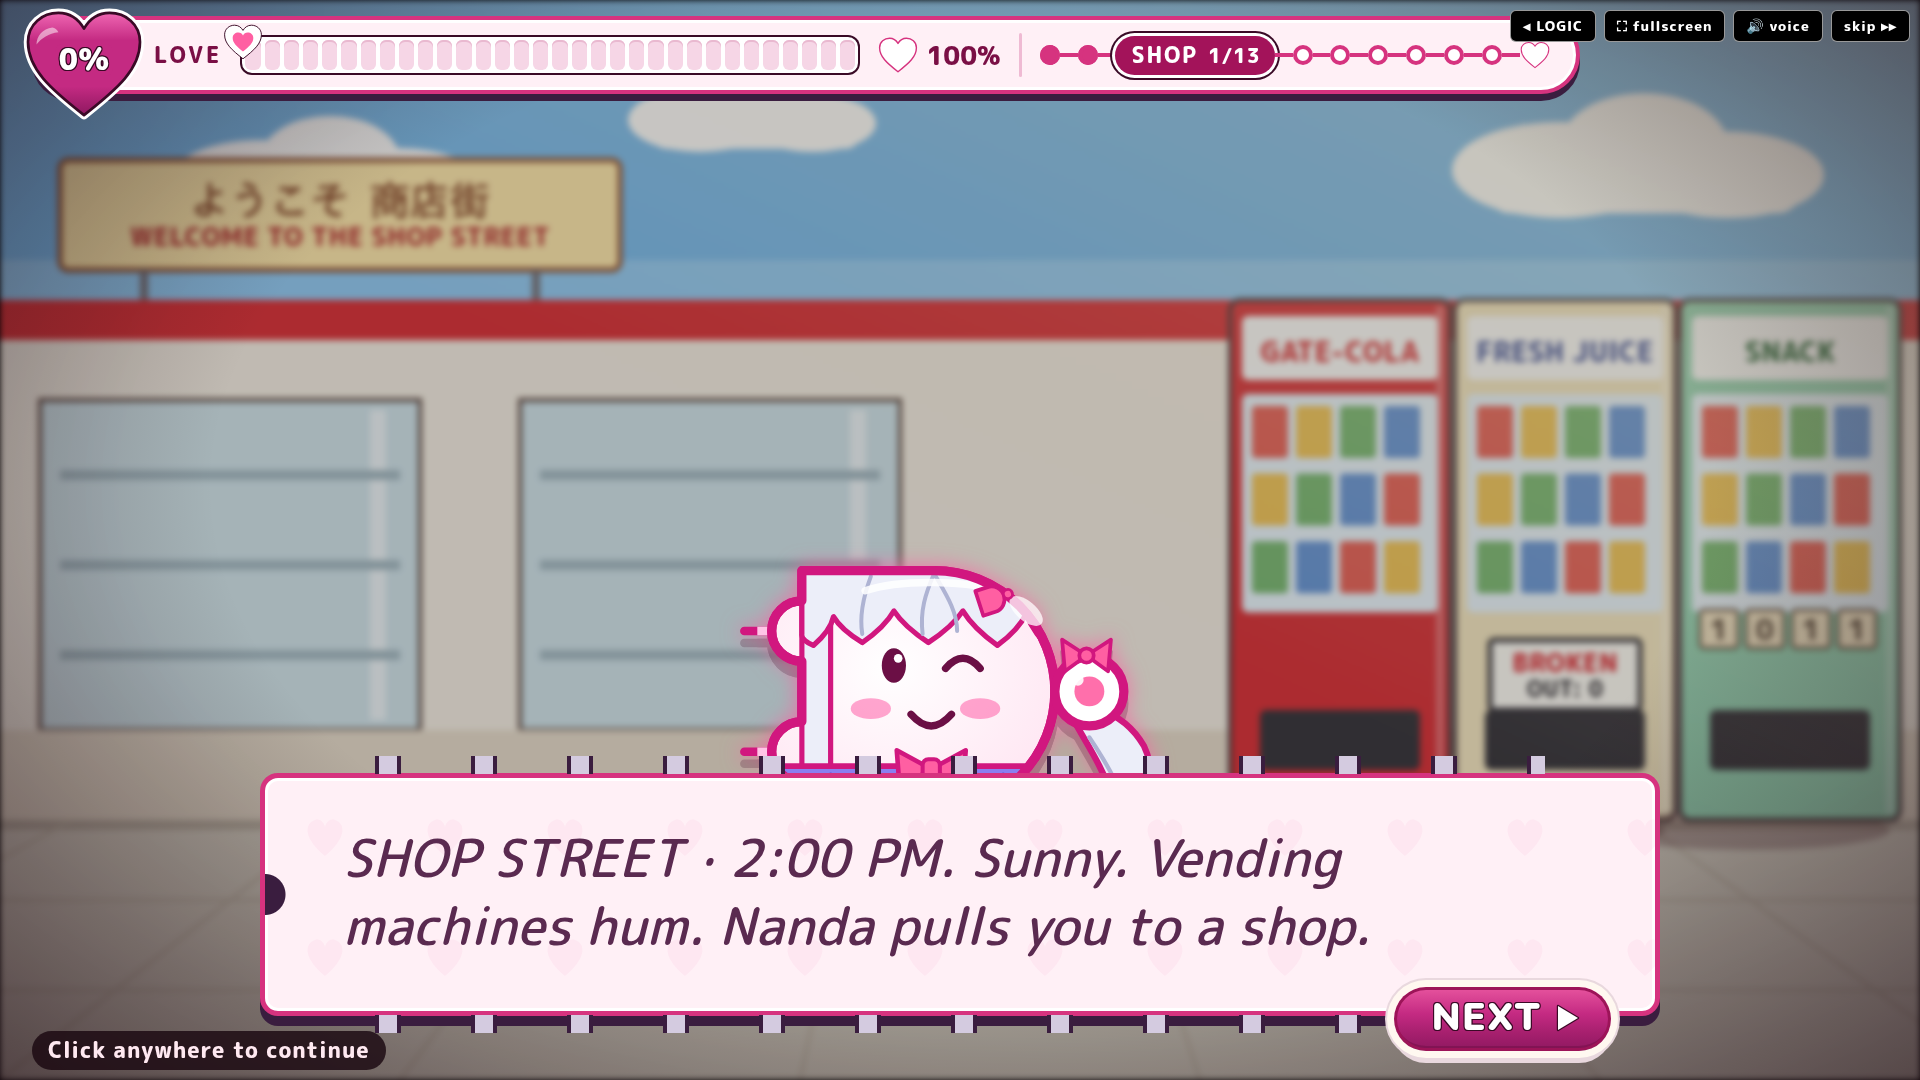
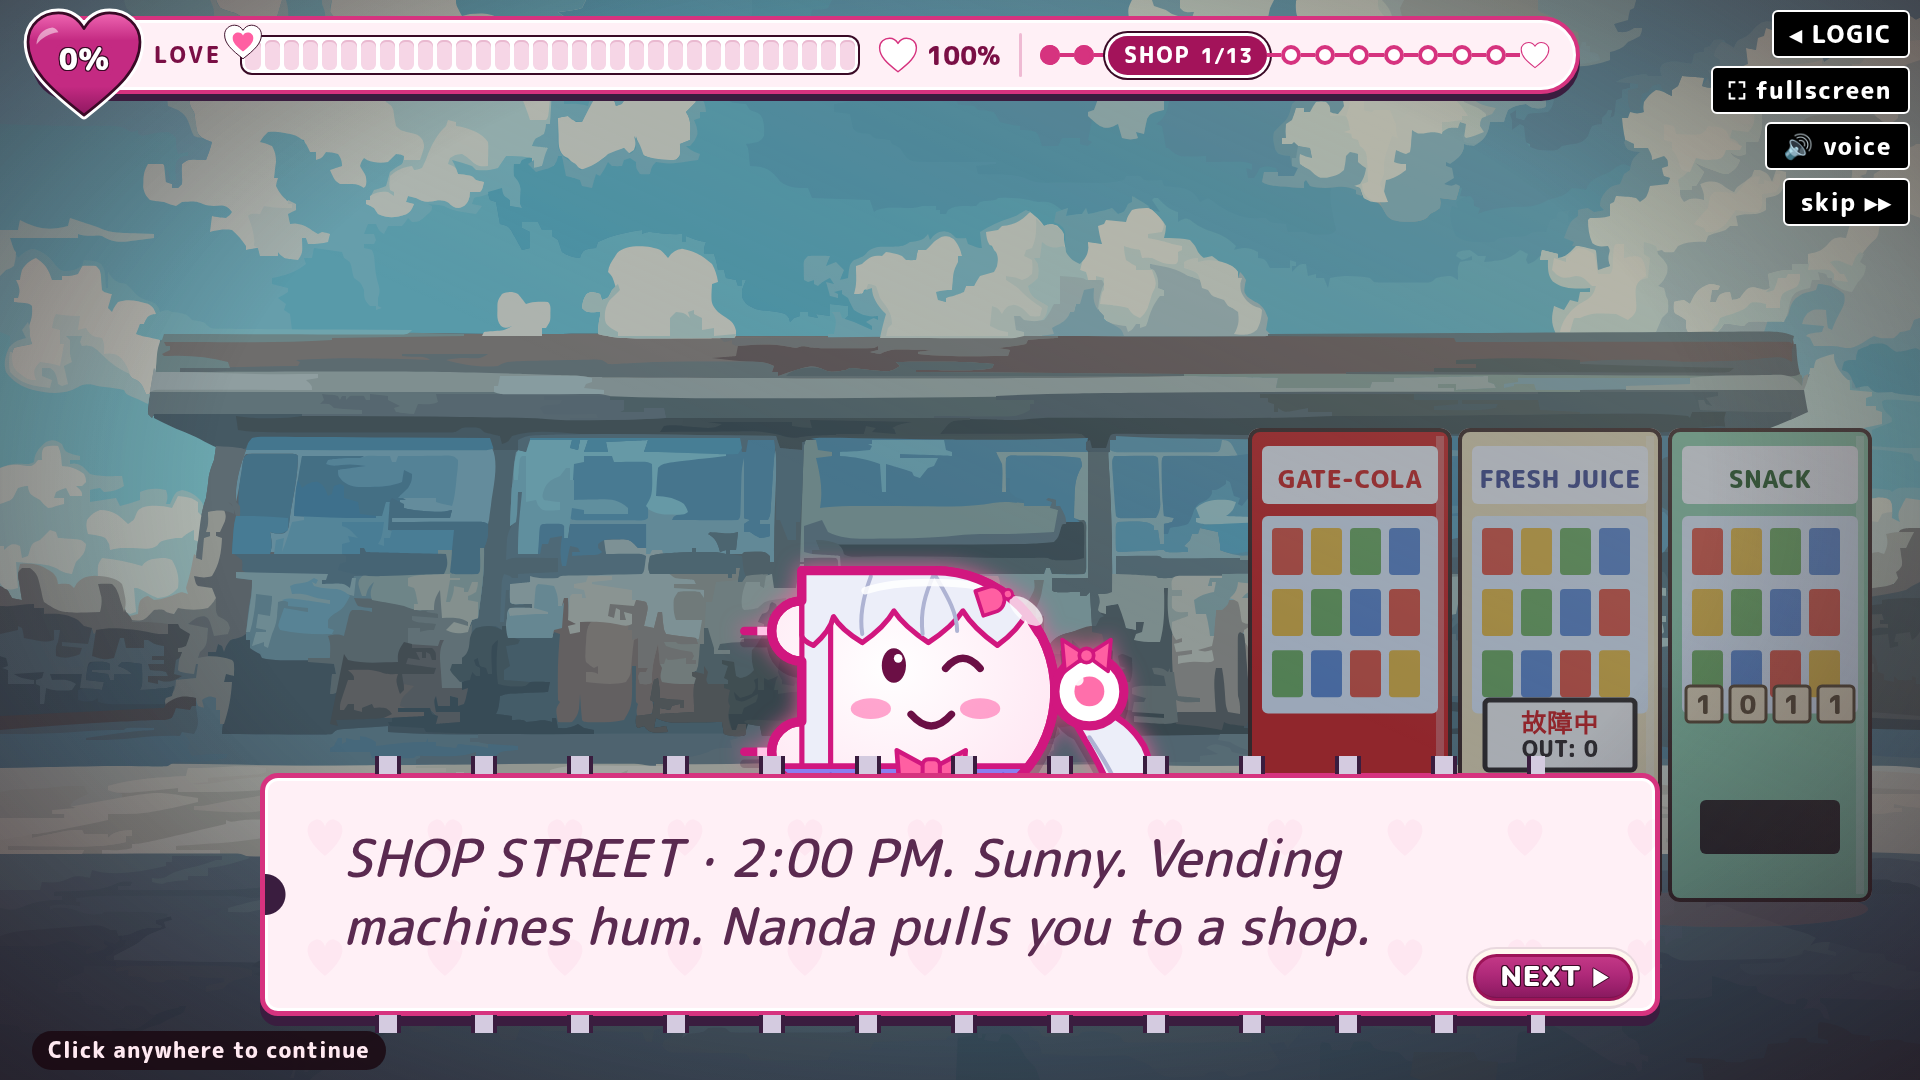
shop: re-shoot 24 + chain, cel-compare side-by-sides, CEL-LOG (drop the floating OPEN card)
Claude-Session: https://claude.ai/code/session_01SJvvUToGvjR4saHp1762z5

diff --git a/src/date-beta/art/shop/Front.jsx b/src/date-beta/art/shop/Front.jsx
@@ -48,13 +48,13 @@ const NameBand = ({ x = 1100, y = 360, w = 500 }) => (
   </g>
 );
 
-// 2. The shop doors (far: ref 16, closer; the entrance lands right of her slot). Cels: the name band on the traced
+// 2. The shop doors (far: ref 16, closer; the entrance lands right of her slot; an OPEN card cel was dropped: it
+// floated on the glass, the trace reads better). Cels: the name band on the traced
 // sign, the EGGS A-board on the pavement (shadow down-left).
 export function ShopDoors() {
   return (
     <ShopScene id="doors" trace="cel-doors" tint={SKY} label="The front of the NAND MART shop on a sunny afternoon. The glass doors on the right stand open; an EGGS sign stands on the pavement by the door.">
       <NameBand x={1110} y={372} w={480} />
-      <Card x={120} y={250} w={380} h={60} r={6} fill={SP.white} stroke="#2c57a8" lines={[['営業中 · OPEN, NOT CLOSED', 28, '#2c57a8']]} />
       <Shadow x={1800} y={930} w={200} h={30} />
       <path d="M1720 930 L1740 690 L1860 690 L1880 930" fill="none" stroke={SP.line} strokeWidth="8" />
       <rect x="1730" y="690" width="140" height="170" rx="6" fill="#fff6d8" stroke={SP.red} strokeWidth="5" />

diff --git a/research/sprint-0930/shop/cel/compare.py b/research/sprint-0930/shop/cel/compare.py
@@ -1,0 +1,24 @@
+# Side-by-sides per shot (CURRENT before cel | NEW multiplane | Tony's ref) -> ../cel-compare/, + the 24-shot chain.png.
+# usage: python3 compare.py <old shots dir> <refs dir>      (run from the repo root; refs are NOT committed)
+import sys, os
+from PIL import Image, ImageDraw
+
+OLD, REF = sys.argv[1], sys.argv[2]
+NEW, OUT = 'research/sprint-0930/shop/shots', 'research/sprint-0930/shop/cel-compare'
+REFS = ['16', '16', '15', '15', '12', '12', '12', '11', '11', '11', '09', '09', '09', '10', '05', '05', '03', '04', '07', '06',
+        '05', '08', '08', '16']
+os.makedirs(OUT, exist_ok=True)
+fs = sorted(f for f in os.listdir(NEW) if f.endswith('.png'))
+for f, r in zip(fs, REFS):
+    C = Image.new('RGB', (1920, 400), 'white'); d = ImageDraw.Draw(C)
+    for i, src in enumerate([f'{OLD}/{f}', f'{NEW}/{f}']):
+        C.paste(Image.open(src).convert('RGB').resize((640, 360)), (i * 640, 40))
+    rf = next(x for x in os.listdir(REF) if x.startswith(r))
+    im = Image.open(f'{REF}/{rf}').convert('RGB'); im.thumbnail((640, 360)); C.paste(im, (1280, 40))
+    for i, t in enumerate(['CURRENT (before cel)', 'NEW multiplane (vtrace + cels)', 'REF ' + rf]):
+        d.text((i * 640 + 10, 12), t, fill='black')
+    C.save(f'{OUT}/{f}'); print(f)
+C = Image.new('RGB', (6 * 320, ((len(fs) + 5) // 6) * 180))
+for i, f in enumerate(fs):
+    C.paste(Image.open(f'{NEW}/{f}').convert('RGB').resize((320, 180)), ((i % 6) * 320, (i // 6) * 180))
+C.quantize(256).save('research/sprint-0930/shop/chain.png'); print('chain', len(fs))

diff --git a/research/sprint-0930/shop/CEL-LOG.md b/research/sprint-0930/shop/CEL-LOG.md
@@ -1,0 +1,28 @@
+# SHOP: cel-over-vtrace (multiplane) log
+
+Technique: brain `_drift/2026-09-30T0515-alt-TECHNIQUE-cel-over-vtrace.md`.
+- **Far plane:** each art id uses a PURE vtrace of one of Tony's refs (`public/date-beta/trace/shop/cel-<id>.svg`). Before tracing, the only changes are a crop/scale (and a mirror for the exit), a soften/inpaint of people, lettering and watermarks, and the 2:00 PM grade. Pipeline: `cel/prep.py` and `vtrace-r2/prep.py`, then `cel/trace.py` (0.5x, 48 colours, ≤700 KB). The bgs get no hand repaint.
+- **Mid and character planes:** flat cels (`ShopScene` children) with a per-scene **tint** (a multiply grade in the colour of the traced light). Shadows fall down-left in the sunny street shots (`LIGHT`) and straight down under the overhead shop lights (`Shadow dx`).
+- **BOOK:** `ShopScene book=`, drawn in front of everything after the wash. It is used for the snacks price-tag rail (17) and the inside door frame and bell (23).
+- **Game (Tony's extra):** the answer cards and the aisle chips now use JP shop POP. Items: 単品 / ペア / 3客セット, にんじん 1袋, たまご 10個入. Aisle chips: 本日のおすすめ, 特売. The English stays as a small subtitle. The art signs follow the same style: 3客セット 特価！, 特売 · 赤いのだけ！, and the gate pun たまご AND たまご = たまご. The two player hands and the red cart rail are gone from every game frame.
+- Side-by-sides (CURRENT | NEW | REF) are in `cel-compare/`. The rule is a bias to the trace: when a cel looks worse than the plain trace, the cel is dropped.
+
+| shot | far (ref) | cels kept | decision |
+|---|---|---|---|
+| 00 street | 16 whole | 3 vending machines (GATE-COLA, 故障中, 1011) | keep: the machines carry the gags; flat on the pavement, shadow down-left |
+| 01 doors | 16 closer | NAND MART band on the traced sign, たまご A-board | **dropped** the OPEN card (it floated on the glass) |
+| 02 list | 15 blurred | the clipboard list, a blurred cart | keep: the list beat still reads |
+| 03 cart | 15 | cart, basket, handle, 2 hands + her hand | keep (same as r2) |
+| 04-06, 08-12 game aisles | 12 / 11 / 09 | POP signs, floor band, THE 3 cups, straight-edge | keep; the signs are now JP POP |
+| 06 carrots right | 12 tight | the POP card only | new trace replaces the hand-drawn crate: better |
+| 09 eggs right | 11 tight | 2 price boards, a おすすめ header | new trace: better |
+| 13-15 cups right | 10 | one plank + 3 cups + ¥880 tags | keep the cel plank (it is the answer); the rest is trace |
+| 16 basket | 03 | carrots + THE cups (r2-cup as-is) | keep |
+| 17 snacks | 04 | NAND BITES card, リスト外 card, BOOK tag rail | keep: the rail gives depth |
+| 18 checkout | 07 | LANE 2 board, basket | keep; the basket is small (see weak) |
+| 19 register | 06 | LED ¥1,011, the shop lady + wave, basket | keep: the lady cel stands over the traced uniform |
+| 20 nails | 05 | her hand on the traced grip | keep: the nails land on the traced bar |
+| 21/22 self | 08 | screen NO LADY HERE, lane-0 flag | keep: the screen covers the inpainted promo text |
+| 23 way out | 16 mirrored | BOOK door frame + bell, bags + hands | keep |
+
+Weak: 21/22 still show an inpaint smear right of the screen. The BOOK cannot pass in front of Nanda, because she is a DOM sprite above the scene layer. 03 keeps the r2 cart cel over a murky trace. The 18 basket is tiny on the rack. On 19, the traced torso shows around the lady cel.
